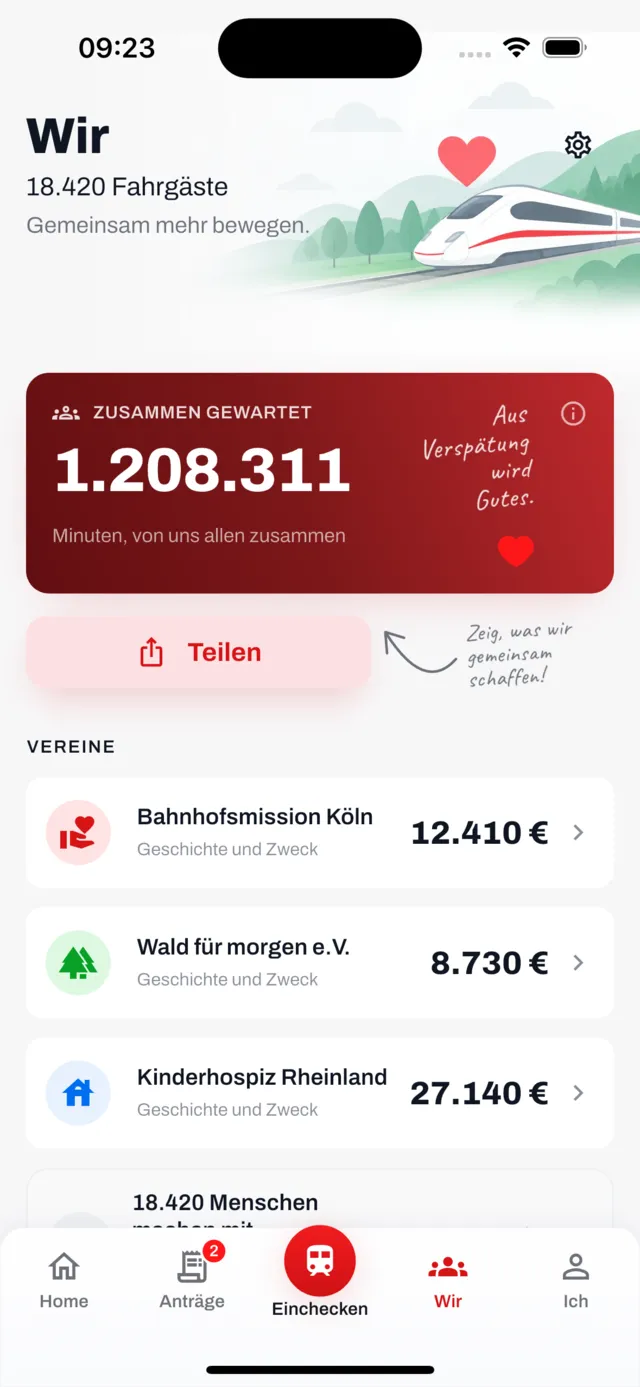
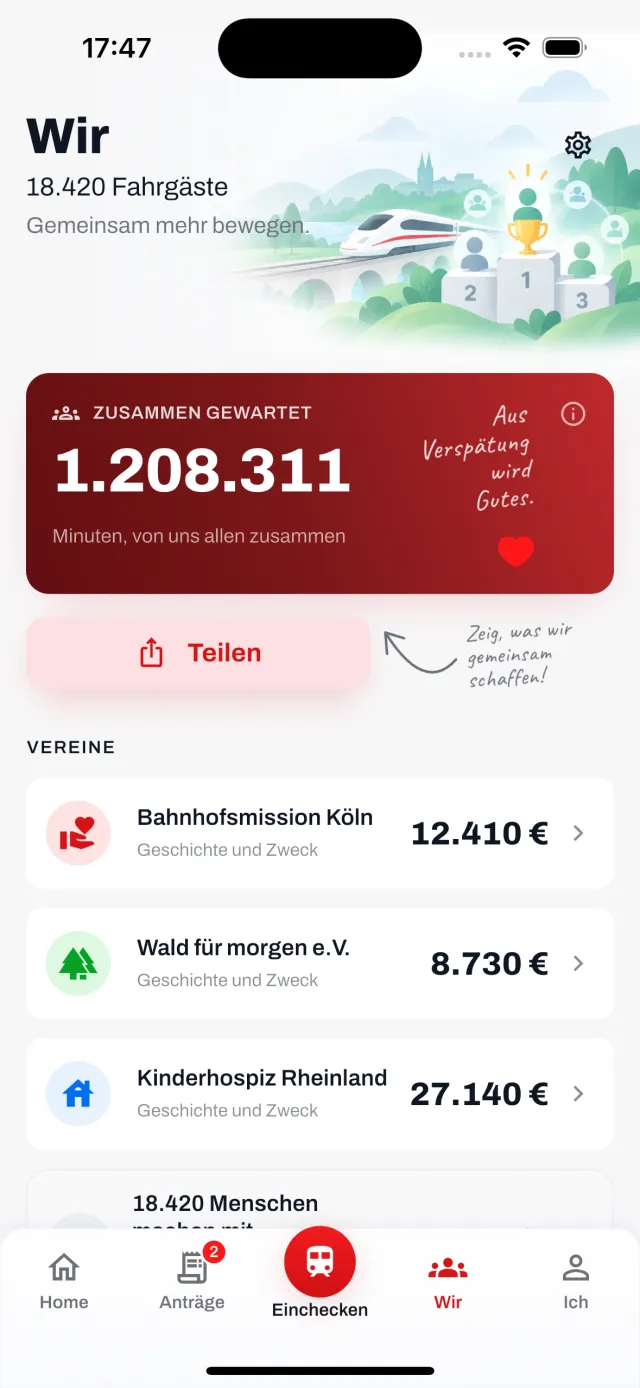
Jeder Tab bekommt seine eigene Landschaft (#36)
Bisher trugen alle vier Tabs dieselben Hügel — Wir mit einem Herz darüber, die
anderen ohne. Jetzt steht in den Hügeln, worum es auf dem Tab geht: das
Klemmbrett mit dem Haken auf Anträge, das Siegertreppchen auf Wir, die
Ausweiskarte auf Ich. Home behält die leere Landschaft.

Die Auswahl lief über ein `sceneHeart`-Flag, das genau zwei Bilder kannte.
`VHeaderSceneArt` trägt jetzt selbst, welche Datei zu ihm gehört und ob es eine
Bandlandschaft oder eine Eckvignette des Antrags ist. Vorher war das ein
Negativtest — alles, was nicht die Landschaft ist, ist eine Vignette —, durch
den eine vierte Landschaft stillschweigend gefallen wäre und auf halber Höhe
ausgeblendet hätte.

Das Herz-Bild ist damit ohne Verwendung und fällt weg. Die Schirmbilder der
Website sind nachgezogen (Hausregel): antraege und wir neu aus der Tour.

Claude-Session: https://claude.ai/code/session_01CHep5mn3MV87vcqqvhxEkw

Changed region(s): [[0.375, 0.031, 1.0, 0.279], [0.125, 0.031, 0.25, 0.062], [0.625, 0.062, 0.6562, 0.093]]

diff --git a/app/lib/widgets/header_scene.dart b/app/lib/widgets/header_scene.dart
@@ -1,6 +1,6 @@
 import 'package:flutter/material.dart';
 
-/// The landscape behind the header on Home and Wir.
+/// The landscape behind the header on a tab.
 ///
 /// It is atmosphere, not a picture. Most of it sits within a few steps of the page background —
 /// pale hills, a haze of cloud — so a title can be set straight over the left half of it and still
@@ -11,25 +11,43 @@ import 'package:flutter/material.dart';
 /// came out flat: a train nose is a few long curves, and a stylised one reads as a slab. The
 /// illustration was worth more than the scalability.
 ///
-/// Two files, differing only in the heart Wir floats over the hills, so the heart sits exactly
-/// where it was drawn rather than being placed again in code. Neither carries a railway's livery:
+/// One file per tab rather than one landscape with a symbol dropped over it in code, so whatever
+/// stands in the hills stands exactly where it was drawn. None of them carries a railway's livery:
 /// the badge on the nose of the original was painted out, because this app files claims against
 /// railways and wearing one's marks in its own header would say something untrue about it.
-/// Which drawing sits behind a header.
 ///
-/// The first two are the landscape band Home and Wir share. The rest are the corner vignettes of
-/// the Antrag: one per step, each naming what that step is about — the clock the delay is measured
-/// against, a ticket on a phone, a heart in a hand, the form being signed, the letter going out.
-/// They are drawn on the same near-white ground and anchored top-right, so the same two gradients
-/// dissolve them into the page.
+/// The values below are the drawings. The landscape band comes first, one per tab: the plain
+/// hills on Home, and for Anträge, Wir and Ich the same hills with the thing that tab is about
+/// standing in them — a clipboard with its tick, a winners' podium, an identity card, each of them
+/// out on the right where no text goes. The rest are the corner vignettes of the Antrag: one
+/// per step, each naming what that step is about — the clock the delay is measured against, a
+/// ticket on a phone, a heart in a hand, the form being signed, the letter going out. They are
+/// drawn on the same near-white ground and anchored top-right, so the same two gradients dissolve
+/// them into the page.
+///
+/// Each value names its own file and says which of the two it is. The test used to be a negative
+/// one — *everything that is not the landscape is a vignette* — and a fourth landscape would have
+/// fallen through it silently and faded out halfway down.
 enum VHeaderSceneArt {
-  landscape,
-  landscapeHeart,
-  antragPruefen,
-  antragTicket,
-  antragZweck,
-  antragUnterschrift,
-  antragSenden,
+  landscape('assets/header/header-scene.webp'),
+  landscapeAntraege('assets/header/header-scene-antraege.webp'),
+  landscapeWir('assets/header/header-scene-wir.webp'),
+  landscapeIch('assets/header/header-scene-ich.webp'),
+  antragPruefen('assets/header/antrag-pruefen.webp', vignette: true),
+  antragTicket('assets/header/antrag-ticket.webp', vignette: true),
+  antragZweck('assets/header/antrag-zweck.webp', vignette: true),
+  antragUnterschrift('assets/header/antrag-unterschrift.webp', vignette: true),
+  antragSenden('assets/header/antrag-senden.webp', vignette: true);
+
+  const VHeaderSceneArt(this.asset, {this.vignette = false});
+
+  /// The file, spelled out in full so a grep for the filename finds the drawing that uses it.
+  final String asset;
+
+  /// A corner vignette, drawn against the top of its plate, rather than a landscape band hanging
+  /// from its horizon. The default is the band: a new drawing that forgets to say is far more
+  /// likely to be a landscape, and that is also the harmless way round.
+  final bool vignette;
 }
 
 class VHeaderScene extends StatelessWidget {
@@ -39,21 +57,8 @@ class VHeaderScene extends StatelessWidget {
   /// uses it: the scene is the header's background, so the header decides how tall it is.
   final double? height;
 
-  /// Which drawing. Wir floats a heart over the hills; Home does not; each Antrag step has its own.
+  /// Which drawing. Each tab has its own landscape, and each Antrag step its own vignette.
   final VHeaderSceneArt art;
-
-  /// The corner vignettes sit at the top of their plate, not the bottom like the landscape band.
-  bool get _isAntrag => art != VHeaderSceneArt.landscape && art != VHeaderSceneArt.landscapeHeart;
-
-  String get _asset => switch (art) {
-        VHeaderSceneArt.landscape => 'assets/header/header-scene.webp',
-        VHeaderSceneArt.landscapeHeart => 'assets/header/header-scene-heart.webp',
-        VHeaderSceneArt.antragPruefen => 'assets/header/antrag-pruefen.webp',
-        VHeaderSceneArt.antragTicket => 'assets/header/antrag-ticket.webp',
-        VHeaderSceneArt.antragZweck => 'assets/header/antrag-zweck.webp',
-        VHeaderSceneArt.antragUnterschrift => 'assets/header/antrag-unterschrift.webp',
-        VHeaderSceneArt.antragSenden => 'assets/header/antrag-senden.webp',
-      };
 
   @override
   Widget build(BuildContext context) {
@@ -74,7 +79,7 @@ class VHeaderScene extends StatelessWidget {
             // The landscape holds almost to its own edge and only stops short of the first card.
             // A corner vignette has to give way sooner: the step ribbon crosses its lower half,
             // and five small words have to stay legible over whatever is behind them.
-            stops: _isAntrag ? const [0, 0.42, 0.78] : const [0, 0.88, 1],
+            stops: art.vignette ? const [0, 0.42, 0.78] : const [0, 0.88, 1],
           ).createShader(rect),
           child: ShaderMask(
             blendMode: BlendMode.dstIn,
@@ -86,7 +91,7 @@ class VHeaderScene extends StatelessWidget {
             ).createShader(rect),
             child: ClipRect(
               child: Image.asset(
-                _asset,
+                art.asset,
                 // fitWidth, not cover. The drawing is shipped at the band's own proportions, so
                 // tying it to the width fills the band top to bottom at exactly the size it was
                 // drawn. Cover would scale it to the height instead and the train would grow
@@ -94,7 +99,7 @@ class VHeaderScene extends StatelessWidget {
                 fit: BoxFit.fitWidth,
                 // The landscape hangs from its horizon, so it is anchored at the bottom. A corner
                 // vignette is drawn against the top of its plate and has to stay there.
-                alignment: _isAntrag ? Alignment.topCenter : Alignment.bottomCenter,
+                alignment: art.vignette ? Alignment.topCenter : Alignment.bottomCenter,
                 filterQuality: FilterQuality.medium,
                 excludeFromSemantics: true,
               ),

diff --git a/app/lib/widgets/scaffold.dart b/app/lib/widgets/scaffold.dart
@@ -392,15 +392,16 @@ class VTabHeader extends StatelessWidget {
 ///               lets the last card run under it, and the scaffold pays for that with bottom
 ///               padding deep enough to scroll that card clear.
 ///
-/// Anträge and Ich pass `scene: false`, which is why their titles start near the top of the
-/// screen while Home's and Wir's start halfway down a hillside.
+/// Every tab wears a band and [art] says which drawing it is: the plain hills on Home, and one
+/// apiece for Anträge, Wir and Ich. That is why a tab's title starts halfway down a hillside
+/// rather than near the top of the screen.
 class VTabScaffold extends StatelessWidget {
   const VTabScaffold({
     super.key,
     required this.header,
     required this.children,
     this.scene = true,
-    this.sceneHeart = false,
+    this.art = VHeaderSceneArt.landscape,
     this.padding,
     this.bottom,
     this.onRefresh,
@@ -415,8 +416,8 @@ class VTabScaffold extends StatelessWidget {
   /// Whether the illustrated band is drawn behind the header.
   final bool scene;
 
-  /// Wir floats a heart over the hills; Home does not.
-  final bool sceneHeart;
+  /// Which drawing the band carries. Each tab has one of its own; Home keeps the plain hills.
+  final VHeaderSceneArt art;
 
   /// The page gutter. The default is the 16 pt one every card on every tab uses.
   final EdgeInsets? padding;
@@ -454,7 +455,7 @@ class VTabScaffold extends StatelessWidget {
                 right: -pad.right,
                 top: -top,
                 bottom: -VSpace.l,
-                child: ClipRect(child: VHeaderScene(art: sceneHeart ? VHeaderSceneArt.landscapeHeart : VHeaderSceneArt.landscape)),
+                child: ClipRect(child: VHeaderScene(art: art)),
               ),
               // The floor is on the header, not on the scene, because the scene is sized by the
               // header: a tab whose title block is one short word would otherwise squeeze the

diff --git a/app/lib/screens/claims/antraege_screen.dart b/app/lib/screens/claims/antraege_screen.dart
@@ -148,6 +148,7 @@ class _AntraegeScreenState extends State<AntraegeScreen> {
     return Loader<_AntraegeData>(
       controller: _loader,
       placeholder: (context) => VTabScaffold(
+        art: VHeaderSceneArt.landscapeAntraege,
         header: VTabHeader(title: 'Anträge', narrow: true, onSettings: () => context.push(Routes.einstellungen)),
         children: const [VSkeletonCard(trailing: true), VSkeletonList()],
       ),
@@ -230,10 +231,11 @@ class _AntraegeScreenState extends State<AntraegeScreen> {
         ];
 
         return VTabScaffold(
-          // The same band as Home and Wir, so the three top-level tabs read as one app. This was
-          // switched off once on the argument that Anträge is a desk and not a view; side by side
-          // with two illustrated tabs it read as a page from somewhere else instead. The landscape
-          // stands in until Anträge has a drawing of its own.
+          // The band was switched off here once, on the argument that Anträge is a desk and not a
+          // view; side by side with the illustrated tabs it read as a page from somewhere else
+          // instead. Now it has hills of its own, with the clipboard and its tick standing in
+          // them: the same landscape every tab wears, saying what this one is for (#36).
+          art: VHeaderSceneArt.landscapeAntraege,
           onRefresh: () async => refresh(),
           header: VTabHeader(
             title: 'Anträge',

diff --git a/app/lib/screens/community/wir_screen.dart b/app/lib/screens/community/wir_screen.dart
@@ -78,7 +78,7 @@ class _WirScreenState extends State<WirScreen> {
     return Loader<_WirData>(
       controller: _loader,
       placeholder: (context) => VTabScaffold(
-        sceneHeart: true,
+        art: VHeaderSceneArt.landscapeWir,
         header: VTabHeader(title: 'Wir', tagline: 'Gemeinsam mehr bewegen.', narrow: true, onSettings: () => context.push(Routes.einstellungen)),
         children: const [VSkeletonBoard(look: VBoardLook.red), VSkeletonList()],
       ),
@@ -99,7 +99,7 @@ class _WirScreenState extends State<WirScreen> {
         final c = data.community;
         final st = data.standing;
         return VTabScaffold(
-          sceneHeart: true,
+          art: VHeaderSceneArt.landscapeWir,
           onRefresh: () async => refresh(),
           header: VTabHeader(
             title: 'Wir',

diff --git a/app/lib/screens/community/ich_screen.dart b/app/lib/screens/community/ich_screen.dart
@@ -30,6 +30,7 @@ class IchScreen extends StatelessWidget {
   Widget build(BuildContext context) {
     return Loader<_IchData>(
       placeholder: (context) => VTabScaffold(
+        art: VHeaderSceneArt.landscapeIch,
         header: VTabHeader(
           title: RepoScope.read(context).me?.nickname ?? 'Ich',
           subtitle: 'Gemeinsam für pünktlichere Züge',
@@ -79,6 +80,7 @@ class IchScreen extends StatelessWidget {
         final ngoName = session.ngos.where((n) => n.id == ngoId).map((n) => n.name).firstOrNull;
 
         return VTabScaffold(
+          art: VHeaderSceneArt.landscapeIch,
           onRefresh: () async => refresh(),
           header: VTabHeader(
             title: name,

diff --git a/app/tools/preview_test.dart b/app/tools/preview_test.dart
@@ -41,7 +41,7 @@ void main() {
 
   _preview('header-scene-home', height: 210, (context) => const VHeaderScene(height: 190));
 
-  _preview('header-scene-wir', height: 210, (context) => const VHeaderScene(height: 190, art: VHeaderSceneArt.landscapeHeart));
+  _preview('header-scene-wir', height: 210, (context) => const VHeaderScene(height: 190, art: VHeaderSceneArt.landscapeWir));
 
   // The scene has to survive being narrow and being wide: it bleeds off the right edge, and the
   // title stands over its left half at every width.
